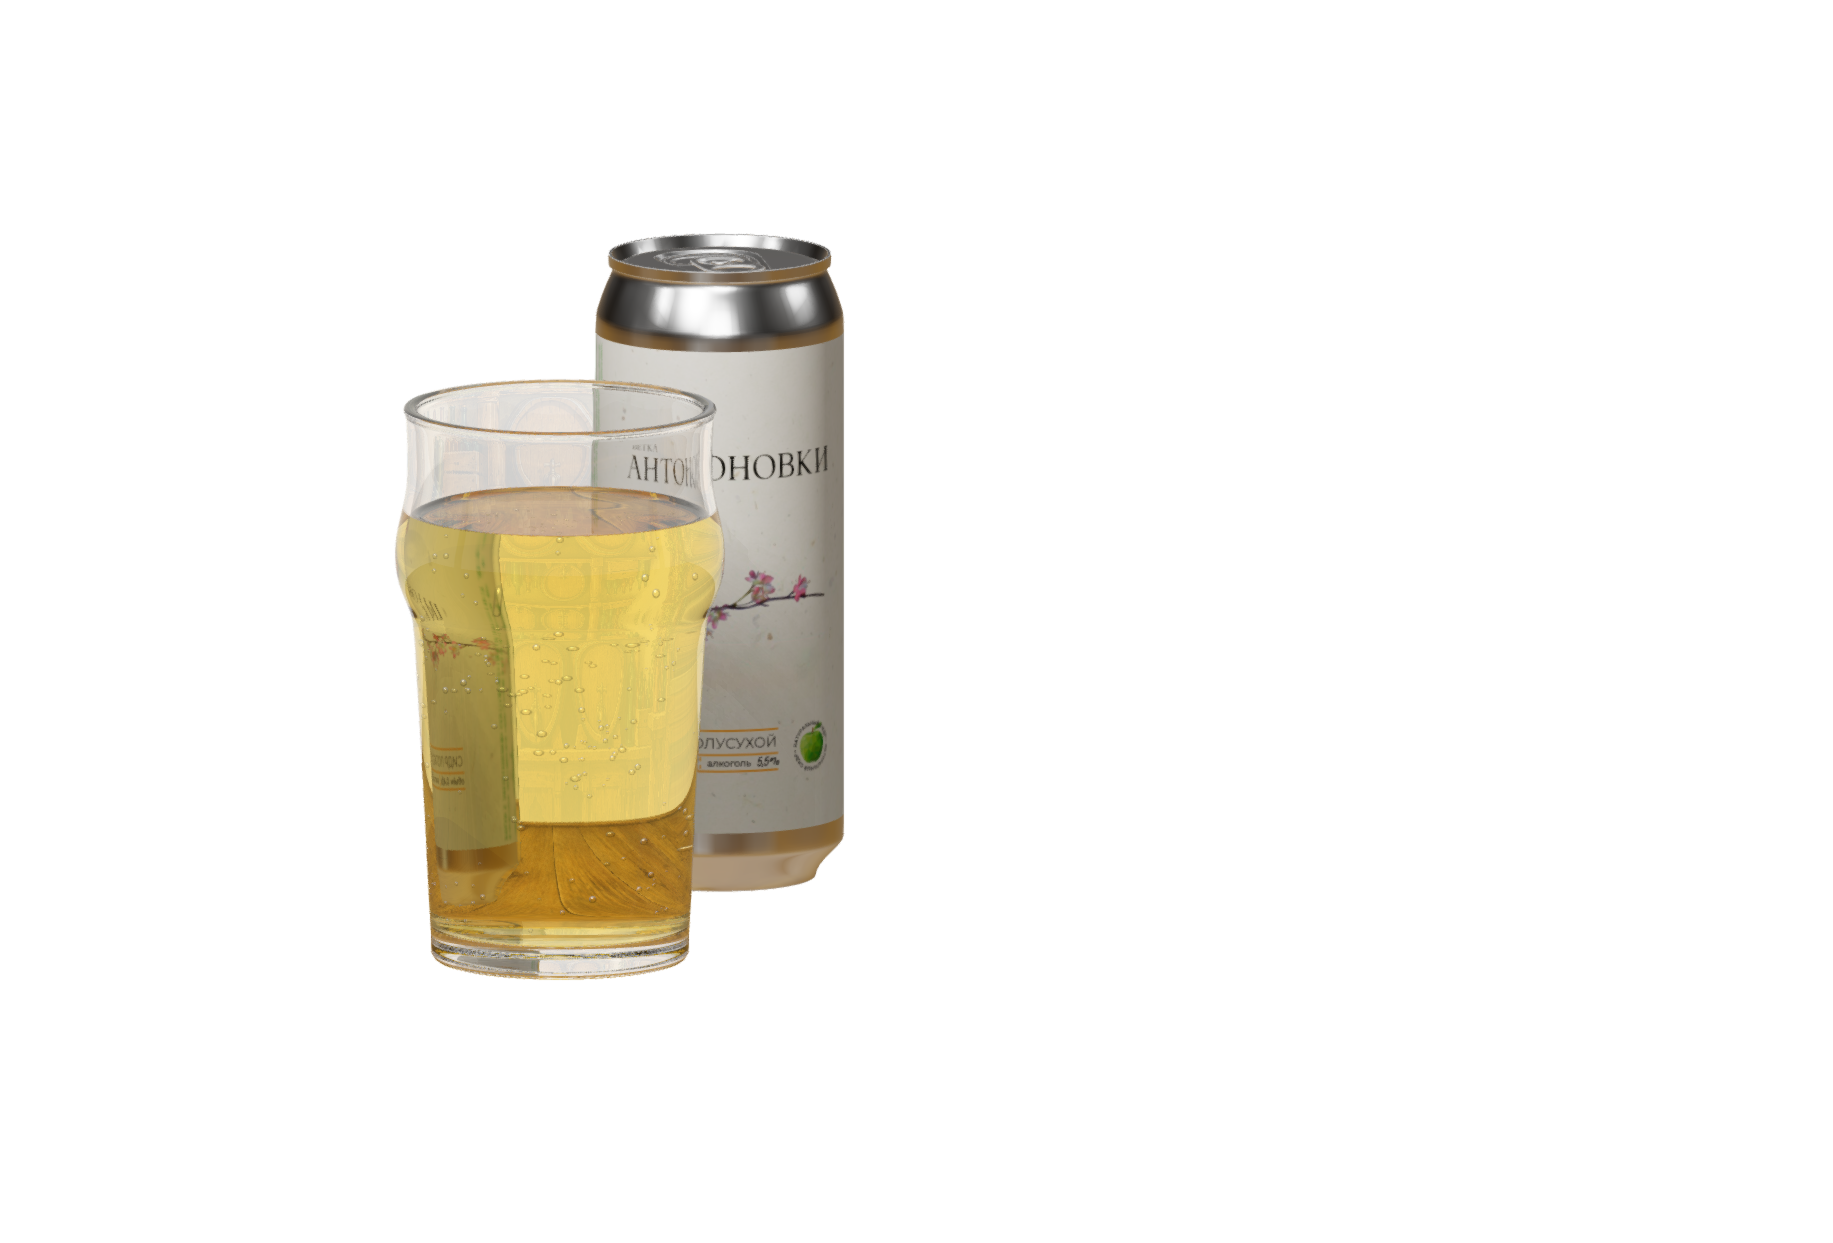
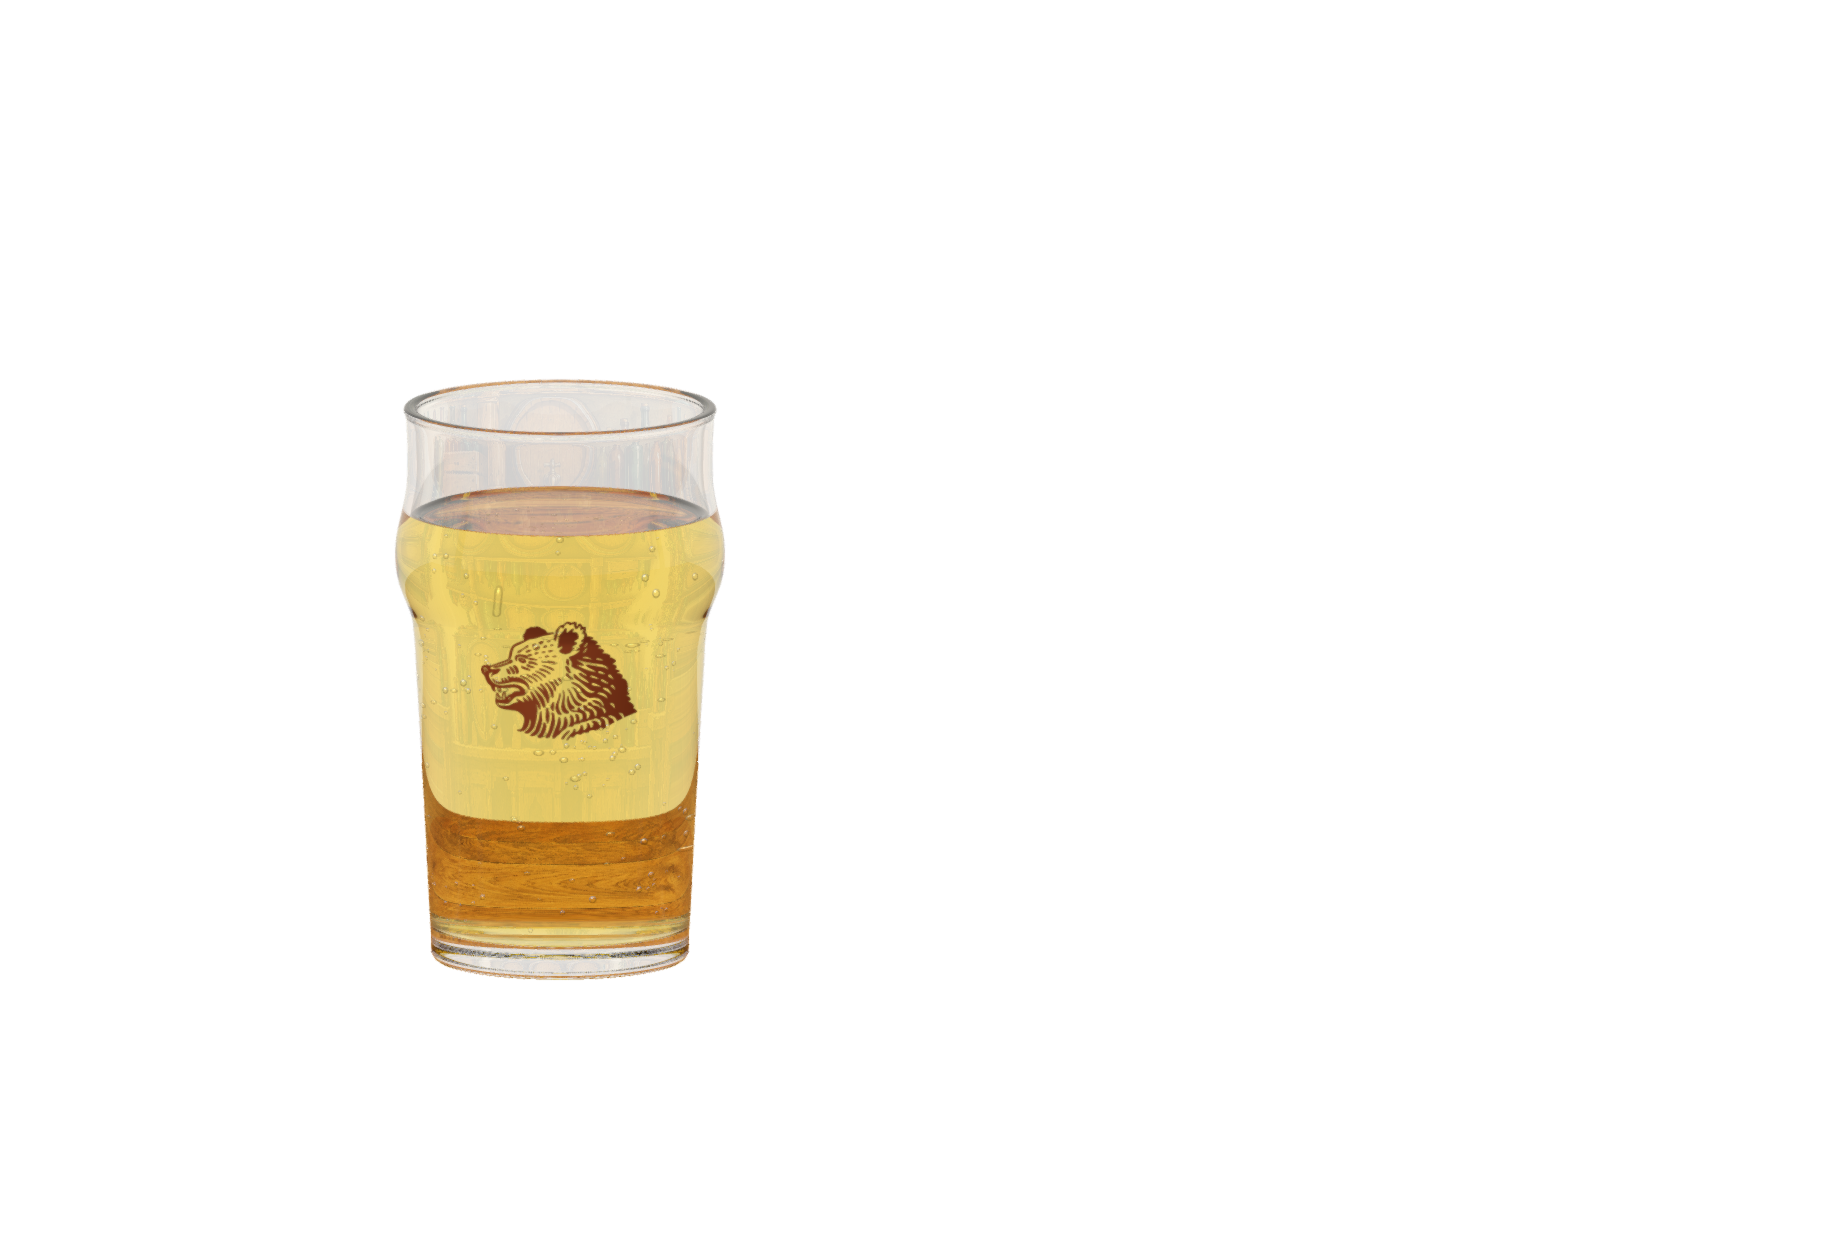
Add support for glass print rendering in glass optics:
- Implement dynamic textured decals for glass prints with adjustable properties.
- Introduce placement logic for seamless integration into glass models.
- Refactor product scene to handle `glassPrint` parameters, placement, and preparation.
- Update rendering logic to support conditional enabling and cleanup for glass prints.

Changed region(s): [[0.2177, 0.1834, 0.4664, 0.7949]]

diff --git a/src/three/glass-lab/glass-optics.js b/src/three/glass-lab/glass-optics.js
@@ -1,6 +1,7 @@
 import { productRenderSettings } from '../../data/product-render-settings.js'
 import { drinkPresets } from '../../data/drink-presets.js'
 import glassModelUrl from '../../assets/models/glass.glb?url'
+import { BufferGeometry, Float32BufferAttribute, MeshPhysicalMaterial } from 'three'
 
 // Оптика и модель стакана подключаются только лабораторией.
 
@@ -347,6 +348,69 @@ export function createGlassOptics({ getView, getBankOptics, canvasToScreen }) {
     modelOrigin.y += 0.0014 * modelScale
     const labToWorld = new THREE.Matrix4().compose(modelOrigin, new THREE.Quaternion(), new THREE.Vector3().setScalar(modelScale / 10))
     const worldToLab = labToWorld.clone().invert()
+    // Печать включается явно владельцем конкретного экспорта. Остальные
+    // рендеры не создают материал и не загружают изображение знака.
+    let glassPrintMesh = null
+    if (shared.glassPrint) {
+      const image = new Image()
+      image.src = new URL('../../assets/branding/brand-logo-mark.svg', import.meta.url).href
+      await image.decode()
+      const printCanvas = document.createElement('canvas')
+      printCanvas.width = 1024
+      printCanvas.height = Math.round(1024 * image.naturalHeight / image.naturalWidth)
+      const printContext = printCanvas.getContext('2d')
+      printContext.drawImage(image, 0, 0, printCanvas.width, printCanvas.height)
+      printContext.globalCompositeOperation = 'source-in'
+      printContext.fillStyle = '#ffffff'
+      printContext.fillRect(0, 0, printCanvas.width, printCanvas.height)
+      const printTexture = new THREE.CanvasTexture(printCanvas)
+      printTexture.colorSpace = THREE.SRGBColorSpace
+      const height = glassMax.y - glassMin.y
+      const positions = [], uvs = [], indices = []
+      const columns = 96, rows = 48
+      for (let row = 0; row <= rows; row++) {
+        const v = row / rows
+        const y = glassMin.y + height * (0.55 + (v - 0.5) * 0.22)
+        let radius = 0
+        for (let i = 0; i < glassProfile.length - 1; i++) {
+          const a = glassProfile[i], b = glassProfile[i + 1]
+          if (Math.abs(b.y - a.y) < 0.000001 || y < Math.min(a.y, b.y) || y > Math.max(a.y, b.y)) continue
+          radius = Math.max(radius, THREE.MathUtils.lerp(a.x, b.x, (y - a.y) / (b.y - a.y)))
+        }
+        radius += height * 0.00005
+        for (let column = 0; column <= columns; column++) {
+          const u = column / columns, angle = (u - 0.5) * 1.15
+          positions.push(Math.sin(angle) * radius, y, Math.cos(angle) * radius)
+          uvs.push(u, v)
+          if (row < rows && column < columns) {
+            const a = row * (columns + 1) + column, b = a + 1
+            const d = a + columns + 1, c = d + 1
+            indices.push(a, b, d, b, c, d)
+          }
+        }
+      }
+      const geometry = new BufferGeometry()
+      geometry.setAttribute('position', new Float32BufferAttribute(positions, 3))
+      geometry.setAttribute('uv', new Float32BufferAttribute(uvs, 2))
+      geometry.setIndex(indices)
+      geometry.computeVertexNormals()
+      const material = new MeshPhysicalMaterial({
+        name: 'glass-printed-label', color: shared.glassPrint.color || '#754023',
+        map: printTexture, roughness: shared.glassPrint.roughness ?? 0.4,
+        metalness: 0, ior: 1.5, clearcoat: 0.08, clearcoatRoughness: 0.35,
+        transparent: true, depthWrite: false,
+      })
+      glassPrintMesh = new THREE.Mesh(geometry, material)
+      glassPrintMesh.name = 'glass-bear-print'
+      glassPrintMesh.receiveShadow = true
+      glassPrintMesh.matrixAutoUpdate = false
+      glassPrintMesh.renderOrder = 101
+      glassPrintMesh.visible = false
+      scene.add(glassPrintMesh)
+      // Тот же свет, карта окружения и преобразование цвета, что у упаковки.
+      shared.prepareGlassPrint(glassPrintMesh)
+      material.envMapIntensity = 1
+    }
     const emptyBankTree = new THREE.DataTexture(new Float32Array(16), 4, 1, THREE.RGBAFormat, THREE.FloatType)
     emptyBankTree.needsUpdate = true
     const uniforms = {
@@ -1226,7 +1290,14 @@ export function createGlassOptics({ getView, getBankOptics, canvasToScreen }) {
         screenMesh.material = displayMaterial
         screenMesh.renderOrder = 100
         shared.beginFinal(displayUniforms.glassToCanvas.value)
-        renderer.render(scene, camera)
+        if (glassPrintMesh) {
+          glassPrintMesh.matrix.copy(shared.glassPrintPlacement()).multiply(labToWorld)
+          glassPrintMesh.matrixWorldNeedsUpdate = true
+          glassPrintMesh.visible = true
+        }
+        try { renderer.render(scene, camera) } finally {
+          if (glassPrintMesh) glassPrintMesh.visible = false
+        }
         shared.finishFinal(screenMesh)
         screenMesh.renderOrder = 0
         onFrameReady()
@@ -1251,6 +1322,12 @@ export function createGlassOptics({ getView, getBankOptics, canvasToScreen }) {
         bubbleCache.dispose(); bubblePathMaterial.dispose(); bubblePositions.dispose()
         background.geometry.dispose(); backgroundMaterial.dispose()
         scene.remove(background, screenMesh)
+        if (glassPrintMesh) {
+          scene.remove(glassPrintMesh)
+          glassPrintMesh.geometry.dispose()
+          glassPrintMesh.material.map.dispose()
+          glassPrintMesh.material.dispose()
+        }
       },
     }
   }

diff --git a/src/pages/home/HomePage.vue b/src/pages/home/HomePage.vue
@@ -5,16 +5,17 @@ import HomeAboutSection from './HomeAboutSection.vue'
 import ContactSection from '../../components/ContactSection.vue'
 import HeroDivider from '../../components/HeroDivider.vue'
 import homeDivider from '../../assets/heroes/home/divider.png?responsive'
-import homeDividerMaskSmall from '../../assets/heroes/home/divider.png?width=960'
-import homeDividerMaskMedium from '../../assets/heroes/home/divider.png?width=1440'
 </script>
 
 <template>
-  <div class="relative isolate z-10 @container">
+  <div
+    class="home-hero relative isolate z-10 @container"
+    :style="{ '--home-divider-image': `url(${homeDivider.src})` }"
+  >
     <HomeHeroSection />
-    <!-- The grass baseline is at 69.1% of the image height, below its transparent top. -->
+    <!-- Keep most of the single garland inside the hero, with its lower edge crossing the boundary. -->
     <HeroDivider
-      class="[&>img]:-translate-y-[69.1%] [&>img]:object-[center_69.1%] wide:[&>img]:h-auto"
+      class="[&>img]:-translate-y-[70%] [&>img]:object-[center_70%] wide:[&>img]:h-auto"
       :image-url="homeDivider.src"
       :image-srcset="homeDivider.srcset"
       image-sizes="max(100vw, 412px)"
@@ -22,7 +23,6 @@ import homeDividerMaskMedium from '../../assets/heroes/home/divider.png?width=14
     />
     <div
       class="home-hero-shading pointer-events-none absolute inset-x-0 top-0 z-11"
-      :style="{ '--home-grass-mask': `url(${homeDivider.src})`, '--home-grass-mask-mobile': `image-set(url(${homeDividerMaskSmall}) 1x, url(${homeDividerMaskMedium}) 2x, url(${homeDivider.src}) 3x)` }"
       aria-hidden="true"
     >
       <span class="home-hero-overlay absolute inset-0" />
@@ -43,13 +43,15 @@ import homeDividerMaskMedium from '../../assets/heroes/home/divider.png?width=14
 </template>
 
 <style scoped>
+.home-hero {
+  --home-divider-height: max(16rem, calc(100cqw / 3));
+  --home-divider-tail: calc(var(--home-divider-height) * 0.3);
+}
+
 .home-hero-shading {
-  /* The 2172 × 724 grass image uses cover inside a 16rem-high divider. */
-  --home-grass-height: max(16rem, calc(100cqw / 3));
-  --home-grass-tail: calc(var(--home-grass-height) * 0.309);
-  bottom: calc(-1 * var(--home-grass-tail));
-  mask-image: linear-gradient(#000, #000), var(--home-grass-mask-mobile);
-  mask-size: 100% calc(100% - var(--home-grass-tail)), max(100%, 48rem) auto;
+  bottom: calc(-1 * var(--home-divider-tail));
+  mask-image: linear-gradient(#000, #000), var(--home-divider-image);
+  mask-size: 100% calc(100% - var(--home-divider-tail)), max(100%, 48rem) auto;
   mask-position: center top, center bottom;
   mask-repeat: no-repeat;
 }
@@ -62,12 +64,6 @@ import homeDividerMaskMedium from '../../assets/heroes/home/divider.png?width=14
   background:
     radial-gradient(ellipse 55% 55% at 0% 90%, rgb(16 16 16 / 56%) 0%, rgb(16 16 16 / 28%) 48%, transparent 100%),
     radial-gradient(ellipse 55% 55% at 100% 90%, rgb(16 16 16 / 56%) 0%, rgb(16 16 16 / 28%) 48%, transparent 100%);
-}
-
-@media (min-width: 48rem) {
-  .home-hero-shading {
-    mask-image: linear-gradient(#000, #000), var(--home-grass-mask);
-  }
 }
 
 @media (min-width: 40rem) {

diff --git a/src/three/product/product-scene.js b/src/three/product/product-scene.js
@@ -10,7 +10,7 @@ import { warmupWebGL } from './webgl-warmup.js'
 export const productSceneKey = Symbol('product-scene')
 
 // Общая сцена лабы и служебных рендеров. На опубликованном сайте используется статика.
-export function createProductScene({ loadGlassOptics, staticMode = () => false, exportRender = false, modelSource = '', shadowStyle = 'cast', glassOnly = false, vessel = 'glass', bottleLabelSource = '', quality = productRenderSettings.quality, cameraSettings = productRenderSettings.camera, lightSettings, shadowSettings = productRenderSettings.shadows[shadowStyle] || productRenderSettings.shadows.cast } = {}) {
+export function createProductScene({ loadGlassOptics, staticMode = () => false, exportRender = false, modelSource = '', shadowStyle = 'cast', glassOnly = false, glassPrint = null, vessel = 'glass', bottleLabelSource = '', quality = productRenderSettings.quality, cameraSettings = productRenderSettings.camera, lightSettings, shadowSettings = productRenderSettings.shadows[shadowStyle] || productRenderSettings.shadows.cast } = {}) {
   let currentView = null, closed = false, failed = false
   let bankOptics = null
   const sceneSettings = cameraSettings
@@ -452,6 +452,9 @@ export function createProductScene({ loadGlassOptics, staticMode = () => false, 
         optics = await glassOptics.createGlassRenderer(THREE, renderer, scene, camera, glassSlot.host, sync,
           onFrameReady, {
             canPlacement: glassOnly ? new THREE.Group() : canPlacement, bankDisplay, setView, placeBank, lightSource,
+            glassPrint,
+            glassPrintPlacement: () => restOnCounter(placementMatrix(glassSlot, false, 0), glassItem.productBounds),
+            prepareGlassPrint: mesh => prepareProductMaterials(THREE, mesh, environment.texture, lightSource, bankDisplay),
             quality: sceneQuality,
             foamEnabled: () => glassSlot.props.foam,
             drinkPreset: () => glassOptics.drinkPreset(glassSlot.props.drink),

diff --git a/src/data/product-slider-renders.js b/src/data/product-slider-renders.js
@@ -11,4 +11,4 @@ export const productSliderRenders = Object.freeze({
   puare: { pair: perryPair, pairShadow: perryPairShadow },
 })
 
-export const productRenderFrame = Object.freeze({"width":1833,"height":1243,"heightScale":1.3464444599994765,"topOffset":-17.322222999973828,"center":33.79354857521831,"origins":{"glass":"30.539560145890228% 77.24415821238256%","can":"39.265148759001725% 70.40954212376968%"}})
+export const productRenderFrame = Object.freeze({"width":1833,"height":1243,"heightScale":1.7921175762593038,"topOffset":-52.45976555304147,"center":30.523731587561375,"origins":{"glass":"30.539560145890228% 77.24415821238256%"}})
